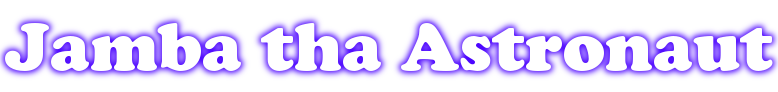
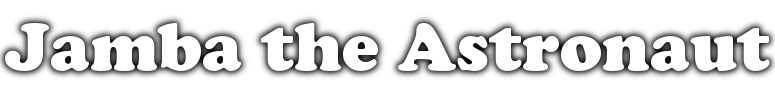
jateklogo fejlesztes

Changed region(s): [[0.0, 0.1739, 1.0, 0.8478]]

diff --git a/jatekok/index2.html b/jatekok/index2.html
@@ -16,7 +16,7 @@
           <div class="content">
             <div class="image-container">
                 <a href="jatekok/jatek.html"><img src="imgs/ast.png" alt=""></a>
-                <a href="jatekok/jambajatek .html"><img src="imgs/jambasex.png" alt=""></a>
+                <a href="jatekok/jambajatek .html"><img src="imgs/jatejlgi.png" alt=""></a>
             </div>
             <p> A <b>Sex with Jamba</b> Jamba első Játéka és arról szól hogy Jamba meg akar dugni téged minden áron.</p>
             <p><b>Jamba the Astronaut</b> Jamba második játéka, amiben meg kell mentened a földet Kumától Barnától és Danitól.</p>

diff --git a/jatekok/stiló.css b/jatekok/stiló.css
@@ -134,7 +134,3 @@ button:hover{
         height: auto;
         margin: 0 20px;
     }
-
-    .left{
-        text-indent: 30%;
-    }
